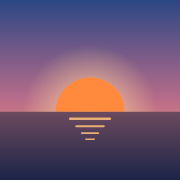
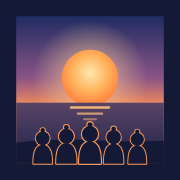
로고(해를 바라보는 다섯 사람의 뒷모습), 나가기·작별 인사, 검색 노출 설정
- 새 로고: 수평선 위 둥근 해와 함께 해를 바라보는 다섯 사람의 뒷모습 (해변 캐릭터와 같은 모양)
- 탭 아이콘·앱 아이콘·상단 로고·공유 이미지에 적용
- 상단 '나가기' 버튼과 폰 뒤로가기: 바로 나가지 않고 상황별 작별 인사 → 작별 화면
- 뒤로가기는 열린 창이 있으면 그 창만 닫음
- '연결 중' 표시를 인원 표시와 합쳐 좁은 화면에서도 한 줄 유지
- 검색: canonical, 설명 보강, WebApplication 구조화 데이터, robots.txt, sitemap.xml

Claude-Session: https://claude.ai/code/session_01Xya5pZ6iNnSspWDnsyREZz

diff --git a/client/index.html b/client/index.html
@@ -4,7 +4,23 @@
 <meta charset="utf-8">
 <meta name="viewport" content="width=device-width, initial-scale=1, maximum-scale=1, user-scalable=no">
 <title>오늘의 해 — 매일 아침 함께 보는 해돋이</title>
-<meta name="description" content="출근 전 1분, 같은 해변에서 사람들과 함께 실시간 해돋이를 봐요.">
+<meta name="description" content="출근 전 1분, 정동진·성산일출봉·호미곶 해변에서 사람들과 함께 실시간 해돋이를 봐요. 해 뜨기 5분 전 알람, 풍등 올리기, 매일 해 본 날 기록까지. 설치 없이 바로 접속하는 3D 온라인 해돋이.">
+<script type="application/ld+json">
+{
+  "@context": "https://schema.org",
+  "@type": "WebApplication",
+  "name": "오늘의 해",
+  "alternateName": "Oneul-hae",
+  "url": "https://hae.abracadelulu.com/",
+  "description": "매일 아침 실제 일출 시각에 맞춰 3D 해변에서 다른 사람들과 함께 해돋이를 보는 온라인 서비스",
+  "applicationCategory": "LifestyleApplication",
+  "operatingSystem": "Web",
+  "inLanguage": "ko",
+  "image": "https://hae.abracadelulu.com/og.png",
+  "offers": { "@type": "Offer", "price": "0", "priceCurrency": "KRW" },
+  "creator": { "@type": "Person", "name": "Harry", "url": "https://abracadelulu.com" }
+}
+</script>
 <meta property="og:type" content="website">
 <meta property="og:site_name" content="오늘의 해">
 <meta property="og:locale" content="ko_KR">
@@ -19,7 +35,10 @@
 <meta name="twitter:image" content="https://hae.abracadelulu.com/og.png">
 <meta name="theme-color" content="#14152a">
 <link rel="manifest" href="/manifest.webmanifest">
-<link rel="icon" type="image/png" sizes="192x192" href="/icon-192.png">
+<link rel="icon" type="image/svg+xml" href="/logo.svg">
+<link rel="icon" type="image/png" sizes="32x32" href="/favicon-32.png">
+<link rel="canonical" href="https://hae.abracadelulu.com/">
+<meta name="robots" content="index, follow">
 <link rel="apple-touch-icon" href="/apple-touch-icon.png">
 <meta name="apple-mobile-web-app-capable" content="yes">
 <meta name="mobile-web-app-capable" content="yes">
@@ -31,13 +50,22 @@
 </head>
 <body>
 <div id="scene"></div>
+<section class="sr-only">
+  <h2>오늘의 해 — 온라인 해돋이</h2>
+  <p>오늘의 해는 매일 아침 실제 일출 시각에 맞춰 정동진, 제주 성산일출봉, 포항 호미곶, 뉴질랜드 기스본 해변에서 해가 뜨는 모습을 다른 사람들과 함께 보는 3D 웹 서비스예요. 캐릭터로 해변을 걷고, 방석에 앉고, 소원을 적은 풍등을 올릴 수 있어요. 해 뜨기 5분 전 알람과 연속 기록으로 매일 아침 해 보는 습관을 만들어 보세요.</p>
+</section>
+<noscript>오늘의 해는 3D 화면을 쓰기 때문에 자바스크립트가 필요해요.</noscript>
 
 <div class="ui">
   <header>
-    <div class="brand">오늘의 해<small>출근 전 1분, 같이 보는 해돋이</small></div>
+    <div class="hleft pe">
+      <button class="iconbtn exitbtn" id="exitBtn" aria-label="해변에서 나가기">‹<span class="exit-label"> 나가기</span></button>
+      <img class="brand-logo" src="/logo.svg" alt="" width="30" height="30">
+      <div class="brand">오늘의 해<small>출근 전 1분, 같이 보는 해돋이</small></div>
+    </div>
     <div class="hright pe">
       <span class="conn" id="conn">연결 중…</span>
-      <div class="viewers"><span class="dot off" id="liveDot"></span><b id="viewerCount">-</b>명</div>
+      <div class="viewers"><span class="dot off" id="liveDot"></span><b id="viewerCount">연결 중…</b><span id="viewerUnit"></span></div>
       <button class="iconbtn" id="soundBtn" aria-label="소리 끄기">🔊</button>
       <button class="iconbtn" id="menuBtn">기록·알람</button>
     </div>
@@ -145,6 +173,23 @@
     <button class="btn" id="installLater">나중에</button>
     <button class="btn primary" id="installGo">설치하기</button>
   </div>
+</div>
+
+<div class="sheet" id="byeSheet" role="dialog" aria-labelledby="byeTitle">
+  <div class="bye-sun" aria-hidden="true"></div>
+  <h2 id="byeTitle">벌써 가시나요?</h2>
+  <p class="lead bye-text" id="byeText"></p>
+  <div class="row install-btns">
+    <button class="btn" id="byeStay">조금 더 있을게요</button>
+    <button class="btn primary" id="byeLeave">해변에서 나가기</button>
+  </div>
+</div>
+
+<div class="goodbye" id="goodbye" role="dialog" aria-labelledby="goodbyeTitle">
+  <div class="bye-sun big" aria-hidden="true"></div>
+  <h2 id="goodbyeTitle">오늘도 좋은 하루 보내요</h2>
+  <p id="goodbyeText">내일 아침, 해변에서 다시 만나요.</p>
+  <button class="btn primary" id="comeBack">다시 해변으로</button>
 </div>
 
 <div class="hint" id="hint">

diff --git a/client/src/main.ts b/client/src/main.ts
@@ -108,8 +108,8 @@ let stats: Stats | null = null;
 function join() {
   net.emit('join', { place: place.id, uid: store.uid, nick: store.nick, look: store.look, woke: wokeToday() });
 }
-net.on('connect', () => { connected = true; $('conn').classList.remove('show'); join(); });
-net.on('disconnect', () => { connected = false; $('conn').classList.add('show'); clearRemotes(); });
+net.on('connect', () => { connected = true; $('conn').classList.remove('show'); join(); renderCounts(); });
+net.on('disconnect', () => { connected = false; $('conn').classList.add('show'); clearRemotes(); renderCounts(); });
 net.on('connect_error', () => { $('conn').classList.add('show'); });
 $('conn').classList.add('show');
 
@@ -159,7 +159,8 @@ function sendState(t: number) {
 
 function renderCounts() {
   const online = stats?.online[place.id] ?? (connected ? remotes.size + 1 : 0);
-  $('viewerCount').textContent = connected ? online.toLocaleString('ko-KR') : '-';
+  $('viewerCount').textContent = connected ? online.toLocaleString('ko-KR') : '연결 중…';
+  $('viewerUnit').textContent = connected ? '명' : '';
   [...$('chips').children].forEach((el, i) => {
     const n = stats?.online[PLACES[i].id] ?? 0;
     (el.querySelector('em') as HTMLElement).textContent = n ? `${n}명` : '';
@@ -630,6 +631,69 @@ async function refreshWeather() {
 }
 refreshWeather();
 setInterval(refreshWeather, 15 * 60000);
+
+// ================= 나가기 (버튼 + 폰 뒤로가기) =================
+let leaving = false;
+function openBye() {
+  if (openSheet) close();
+  const live = !replay && !!sunriseInfo(place, Date.now()).windowSR;
+  const seenToday = !!store.days[dateKey(Date.now())];
+  const others = remotes.size;
+  const n = streakCount();
+  const info = sunriseInfo(place, Date.now());
+  let title: string, text: string;
+  if (seenToday) {
+    title = others > 0 ? '같이 해를 봐 줘서 고마워요' : '오늘 해를 봐 줘서 고마워요';
+    text = (others > 0 ? `<b>${place.name}</b>에서 <b>${others}명</b>과 함께 오늘의 해를 봤어요.<br>` : `<b>${place.name}</b>에서 오늘의 해를 봤어요.<br>`)
+      + (n > 1 ? `벌써 <b>${n}일째</b>예요. 내일도 같이 봐요.` : '오늘 하루도 따뜻하게 보내요.');
+  } else if (live && info.windowSR && Date.now() < info.windowSR) {
+    title = '해가 곧 떠요!';
+    text = `<b>${hm(info.windowSR, place.tz)}</b>에 해가 떠요. 조금만 더 있다 갈까요?`;
+  } else {
+    title = '와 줘서 고마워요';
+    text = info.next
+      ? `다음 해돋이는 <b>${dayName(info.next, place.tz)} ${hm(info.next, place.tz)}</b>이에요.<br>그때 해변에서 같이 봐요.`
+      : '다음 해돋이에 다시 만나요.';
+  }
+  $('byeTitle').textContent = title;
+  $('byeText').innerHTML = text;
+  $('byeStay').textContent = live && !seenToday ? '해 뜨는 거 보고 갈게요' : '조금 더 있을게요';
+  open('byeSheet');
+}
+function leave() {
+  leaving = true;
+  close();
+  net.disconnect();
+  amb.pause();
+  $('goodbyeText').innerHTML = store.days[dateKey(Date.now())]
+    ? '오늘 해를 같이 봐서 즐거웠어요.<br>내일 아침, 해변에서 다시 만나요.'
+    : '내일 아침, 해변에서 다시 만나요.';
+  $('goodbye').classList.add('open');
+  // 이 사이트로 들어오기 전 페이지가 있으면 그쪽으로 돌아감 (없으면 작별 화면이 남아 있음)
+  setTimeout(() => history.go(-2), 900);
+}
+$('exitBtn').onclick = openBye;
+$('byeStay').onclick = close;
+$('byeLeave').onclick = leave;
+$('comeBack').onclick = () => {
+  leaving = false;
+  $('goodbye').classList.remove('open');
+  history.pushState({ hae: true }, '');
+  net.connect();
+  amb.resume();
+};
+
+// 폰의 뒤로가기: 열린 창이 있으면 그 창만 닫고, 없으면 작별 인사를 띄움
+history.pushState({ hae: true }, '');
+addEventListener('popstate', () => {
+  if (leaving) return;
+  history.pushState({ hae: true }, '');
+  if ($('wake').classList.contains('open')) return;
+  if ($('hint').classList.contains('open')) { $('hint').classList.remove('open'); store.hinted = true; save(); return; }
+  if (openSheet && openSheet.id !== 'byeSheet') { close(); return; }
+  if (openSheet?.id === 'byeSheet') { close(); return; }
+  openBye();
+});
 
 // ================= 시작 =================
 const askInstallSoon = () => setTimeout(() => { if (!openSheet) showInstall(false); }, 4000);

diff --git a/client/src/style.css b/client/src/style.css
@@ -114,3 +114,22 @@
 .kakao-qr{display:flex;align-items:center;gap:14px;margin-top:12px;font-size:12.5px;color:var(--ink-dim);line-height:1.6}
 .kakao-qr img{border-radius:12px;background:#fff;padding:6px;width:120px;height:120px}
 [hidden]{display:none !important}
+.hleft{display:flex;align-items:center;gap:8px;min-width:0}
+.exitbtn{font-weight:700}
+.bye-sun{width:64px;height:32px;border-radius:64px 64px 0 0;background:radial-gradient(circle at 50% 100%,#ffd08a,#ff8a3d 70%);box-shadow:0 -6px 30px rgba(255,160,80,.55);margin:4px auto 14px}
+.bye-sun.big{width:120px;height:60px;margin-bottom:22px}
+#byeSheet h2{text-align:center}
+.bye-text{text-align:center;line-height:1.7;margin-top:8px}
+.bye-text b{color:var(--ink)}
+.goodbye{position:fixed;inset:0;display:none;flex-direction:column;align-items:center;justify-content:center;text-align:center;padding:24px;background:radial-gradient(ellipse at 50% 80%,#ffb36b 0%,#b86c8a 30%,#2b4684 70%,#14152a 100%)}
+.goodbye.open{display:flex}
+.goodbye h2{font-family:'Gowun Batang',serif;font-size:28px}
+.goodbye p{color:var(--ink-dim);margin-top:10px;font-size:15px;line-height:1.6}
+.goodbye .btn{width:min(280px,100%);margin-top:28px}
+.conn{display:none !important}
+.brand{white-space:nowrap}
+@media (max-width:389px){ .exit-label{display:none} }
+.brand-logo{width:30px;height:30px;border-radius:8px;flex:none;box-shadow:0 2px 10px rgba(0,0,0,.3)}
+.sr-only{position:absolute;width:1px;height:1px;padding:0;margin:-1px;overflow:hidden;clip:rect(0,0,0,0);white-space:nowrap;border:0}
+@media (max-width:389px){ .brand-logo{width:26px;height:26px} }
+@media (max-width:430px){ .brand{font-size:17px} .hleft{gap:6px} }
